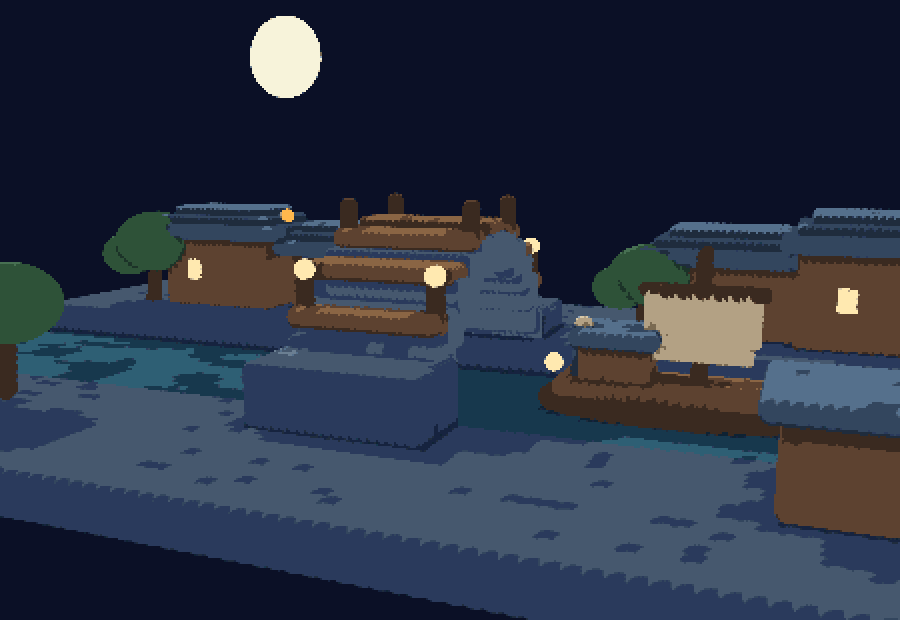
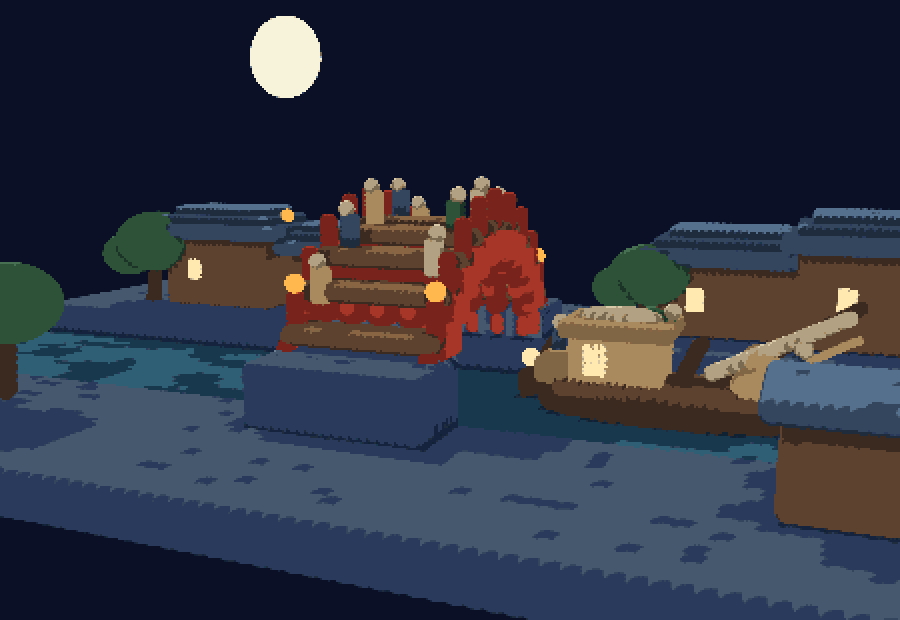
v0.2 按参考图细化：朱红木拱虹桥+拱肋+栏杆+人群；船桅放倒/收帆联动、竹编大舱、货筐、三船工（动态版+原生版同步）

Changed region(s): [[0.3111, 0.2758, 0.9644, 0.6435], [0.56, 0.7048, 0.8711, 0.7355]]

diff --git a/web/index.html b/web/index.html
@@ -98,7 +98,7 @@ const C = {
   roof:[51,70,94], roofD:[31,44,61], water:[23,56,77], waterD:[14,34,51], glint:[46,95,116],
   bank:[38,54,84], lamp:[255,184,77], lampR:[217,108,44], warm:[255,233,176],
   moon:[247,243,218], sail:[179,161,132], sailL:[216,201,168], leaf:[46,82,56], leafD:[28,51,40],
-  hull:[70,50,36], white:[232,228,200]
+  hull:[70,50,36], white:[232,228,200], red:[168,54,40], redD:[118,35,27], redL:[199,86,59], mat:[168,138,94], matD:[126,100,64], rope:[188,164,120], clothB:[96,110,128], clothG:[110,104,88]
 };
 
 /* water plane (kind=1: shimmer) */
@@ -107,16 +107,47 @@ for(let x=-12;x<12;x+=0.42) for(let z=-2.3;z<2.3;z+=0.42)
 /* banks */
 box(0,0.02,4.9, 12,0.28,2.1, C.bank, 0.4);
 box(0,0.25,-4.6, 12,0.5,2.4, C.bank, 0.4);
-/* Hong Bridge: stepped arch across Z, tunnel along X */
+/* Hong Bridge: red wooden arch across Z, tunnel along X (per the reference:
+   cinnabar lacquered timber arch ribs, railed deck crowded with onlookers, stone abutments) */
 (function(){
   const R=2.9;
-  for(let i=0;i<=14;i++){ const th=i/14*Math.PI, z=Math.cos(th)*R, y=0.1+Math.sin(th)*R;
-    box(0,y,z, 1.35,0.30,0.34, C.stone, 0.3); }
-  for(const s of [-1,1]){ box(0,0.55,s*3.35, 1.5,0.85,0.75, C.stoneD, 0.36); box(0,1.15,s*2.95, 1.45,0.28,0.5, C.stone, 0.34); }
-  for(let i=0;i<=10;i++){ const th=i/10*Math.PI, z=Math.cos(th)*(R+0.42), y=0.1+Math.sin(th)*(R+0.42);
-    box(0,y,z, 1.3,0.10,0.36, C.deck, 0.3);
-    if(i%2===0) for(const sx of [-1,1]){ box(sx*1.22,y+0.32,z, 0.07,0.32,0.07, C.woodD, 0.16);
-      if(i===2||i===8) ellipsoid(sx*1.22,y+0.78,z, 0.15,0.17,0.15, C.lamp, 26, 1); } }
+  const deckY=z=>{ const th=Math.acos(Math.max(-1,Math.min(1,z/(R+0.42)))); return 0.1+Math.sin(th)*(R+0.42); };
+  // stone abutments only at the two ends
+  for(const sd of [-1,1]){ box(0,0.55,sd*3.35, 1.5,0.85,0.75, C.stoneD, 0.36); box(0,1.15,sd*2.95, 1.45,0.28,0.5, C.stone, 0.34); }
+  // five parallel timber arch ribs under the deck
+  for(const rx of [-1.16,-0.58,0,0.58,1.16])
+    for(let i=0;i<=16;i++){ const th=i/16*Math.PI, z=Math.cos(th)*R, y=0.02+Math.sin(th)*R;
+      box(rx,y,z, 0.10,0.17,0.32, i%2?C.redD:C.red, 0.2); }
+  // two main arch chords at the faces
+  for(const fx of [-1.32,1.32])
+    for(let i=0;i<=16;i++){ const th=i/16*Math.PI, z=Math.cos(th)*(R+0.1), y=0.06+Math.sin(th)*(R+0.1);
+      box(fx,y,z, 0.09,0.24,0.34, C.red, 0.2); }
+  // deck planks + red fascia
+  for(let i=0;i<=12;i++){ const th=i/12*Math.PI, z=Math.cos(th)*(R+0.42), y=0.1+Math.sin(th)*(R+0.42);
+    box(0,y,z, 1.34,0.09,0.34, C.deck, 0.28);
+    for(const fx of [-1.36,1.36]) box(fx,y-0.06,z, 0.05,0.2,0.34, C.red, 0.2); }
+  // railings: posts + two rails following the arc, both faces
+  for(const fx of [-1.3,1.3]){
+    let prev=null;
+    for(let i=0;i<=12;i++){ const th=i/12*Math.PI, z=Math.cos(th)*(R+0.42), y=0.1+Math.sin(th)*(R+0.42)+0.1;
+      box(fx,y+0.26,z, 0.055,0.3,0.055, C.redD, 0.14);
+      if(prev) for(const h of [0.34,0.55]){
+        const mz=(prev.z+z)/2, my=(prev.y+y)/2;
+        box(fx,my+h,mz, 0.045,0.05,Math.abs(z-prev.z)/2+0.05, C.red, 0.14); }
+      prev={y,z};
+      if(i===2||i===10) ellipsoid(fx,y+0.78,z, 0.13,0.16,0.13, C.lampR, 22, 1);
+    }
+  }
+  // crowd on the deck: onlookers leaning on the rails, watching the boat
+  const crowdCols=[C.clothB,C.clothG,C.mat,C.sail,C.roof,C.clothB,C.matD,C.clothG];
+  function figure(x,z,ci,lean){
+    const y=deckY(z)+0.12, c=crowdCols[ci%crowdCols.length];
+    for(let i=0;i<7;i++) push(x+(Math.random()-0.5)*0.05, y+0.12+ (i%3)*0.15, z+(Math.random()-0.5)*0.05, 0,1,0, c, 0.19);
+    push(x+lean*0.1, y+0.62, z, 0,1,0, C.white, 0.15);
+    push(x+lean*0.16, y+0.55, z, lean,0,1, c, 0.13);
+  }
+  const spots=[[-0.95,-2.5],[0.95,-2.2],[-0.95,-1.7],[0.9,-1.2],[-0.9,-0.6],[0.95,-0.1],[-0.95,0.5],[0.9,1.0],[-0.9,1.6],[0.95,2.1],[-0.95,2.6],[0.2,-2.9],[-0.3,2.95],[0.5,0.4]];
+  spots.forEach((sp,i)=>figure(sp[0],sp[1],i, sp[0]>0?1:-1));
 })();
 /* houses */
 function house(x,z,w,h,d){
@@ -148,40 +179,86 @@ function walkerSplats(w){
   return out;
 }
 
-/* ============ 2. boat (dynamic group) ============ */
-const BOAT=[]; // local coords, kind: 0 normal, 3 = sail (y scales), 4 = yard+top (moves down)
+/* ============ 2. boat (dynamic group) ============
+   Per the reference: the mast is not just sail-furled, it is LOWERED (放倒桅杆) —
+   mast + yard + sail rotate forward around the mast step as the bridge nears;
+   the sail furls onto the mast, a spare bundle lies on the cabin roof.
+   kind: 0 static-in-boat, 3 sail (furls), 6 mast group (rotates), 7 furled bundle (swells as sail furls) */
+const BOAT=[];
 function bpush(x,y,z,nx,ny,nz,c,size,em,kind){ const l=Math.hypot(nx,ny,nz)||1;
   BOAT.push({x,y,z,nx:nx/l,ny:ny/l,nz:nz/l,r:c[0],g:c[1],b:c[2],size:size||0.3,em:em||0,kind:kind||0}); }
+function btube(x1,y1,z1,x2,y2,z2,r,c,step,kind){
+  const dx=x2-x1,dy=y2-y1,dz=z2-z1,len=Math.hypot(dx,dy,dz),ux=dx/len,uy=dy/len,uz=dz/len;
+  let px=-uz,pz=ux; const pl=Math.hypot(px,pz)||1; px/=pl; pz/=pl;
+  const qx=uy*pz, qy=uz*px-ux*pz, qz=-uy*px;
+  const rings=Math.max(2,Math.ceil(len/step)), around=Math.max(5,Math.ceil(2*Math.PI*r/step));
+  for(let i=0;i<=rings;i++){ const t=i/rings;
+    for(let j=0;j<around;j++){ const a=j/around*Math.PI*2, ca=Math.cos(a)*r, sa=Math.sin(a)*r;
+      bpush(x1+dx*t+px*ca+qx*sa, y1+dy*t+ (qy*sa), z1+dz*t+pz*ca+qz*sa, px*Math.cos(a)+qx*Math.sin(a), qy*Math.sin(a), pz*Math.cos(a)+qz*Math.sin(a), c, step*1.2, 0, kind); } }
+}
+function bellipsoid(cx,cy,cz,rx,ry,rz,c,n,kind){
+  for(let i=0;i<n;i++){ const y=1-(i/(n-1))*2, rad=Math.sqrt(Math.max(0,1-y*y)), th=2.399963*i;
+    bpush(cx+Math.cos(th)*rad*rx, cy+y*ry, cz+Math.sin(th)*rad*rz, Math.cos(th)/rx, y/ry, Math.sin(th)/rz, c, 0.3, 0, kind); }
+}
+function bplane(cx,cy,cz,hx,hy,c,step,em){
+  const n1=Math.ceil(2*hx/step), n2=Math.ceil(2*hy/step);
+  for(let i=0;i<n1;i++)for(let j=0;j<n2;j++)
+    bpush(cx-hx+(i+0.5)/n1*2*hx, cy-hy+(j+0.5)/n2*2*hy, cz, 0,0,1, c, step*1.25, em, 0);
+}
 (function buildBoat(){
-  // hull: ellipsoid surface, clipped top by sampling only lower 3/4 visually via deck cover
-  for(let i=0;i<560;i++){ const y=1-(i/559)*2, rad=Math.sqrt(Math.max(0,1-y*y)), th=2.399963*i;
-    if(y>0.55) continue;
-    bpush(Math.cos(th)*rad*2.3, 0.28+y*0.5, Math.sin(th)*rad*0.72, Math.cos(th)/2.3,y/0.5,Math.sin(th)/0.72, C.hull, 0.3); }
-  // deck & cabin
   const bx=(cx,cy,cz,hx,hy,hz,c,st)=>{ for(const f of [[1,0,0],[-1,0,0],[0,1,0],[0,-1,0],[0,0,1],[0,0,-1]]){
     const t1=f[0]!==0?[0,1,0]:[1,0,0], t2=f[0]!==0?[0,0,1]:(f[1]!==0?[0,0,1]:[0,1,0]);
     const e1=[hx*t1[0],hy*t1[1],hz*t1[2]], e2=[hx*t2[0],hy*t2[1],hz*t2[2]];
     const n1=Math.max(1,Math.ceil(2*Math.hypot(...e1)/st)), n2=Math.max(1,Math.ceil(2*Math.hypot(...e2)/st));
     for(let i=0;i<n1;i++)for(let j=0;j<n2;j++){ const a1=-1+(i+0.5)/n1*2,a2=-1+(j+0.5)/n2*2;
       bpush(cx+f[0]*hx+e1[0]*a1+e2[0]*a2, cy+f[1]*hy+e1[1]*a1+e2[1]*a2, cz+f[2]*hz+e1[2]*a1+e2[2]*a2, f[0],f[1],f[2], c, st*1.15); } } };
+  // hull + plank stripes + stepped upturned bow/stern
+  for(let i=0;i<560;i++){ const y=1-(i/559)*2, rad=Math.sqrt(Math.max(0,1-y*y)), th=2.399963*i;
+    if(y>0.55) continue;
+    bpush(Math.cos(th)*rad*2.3, 0.28+y*0.5, Math.sin(th)*rad*0.72, Math.cos(th)/2.3,y/0.5,Math.sin(th)/0.72, C.hull, 0.3); }
+  for(const sz of [-1,1]){ bx(0,0.44,sz*0.71, 1.8,0.045,0.02, C.woodD, 0.3); bx(0,0.2,sz*0.68, 1.7,0.045,0.02, C.woodD, 0.3); }
+  bx(2.28,0.6,0, 0.26,0.15,0.48, C.hull, 0.26); bx(2.52,0.78,0, 0.15,0.12,0.36, C.hull, 0.24);
+  bx(-2.28,0.6,0, 0.26,0.15,0.48, C.hull, 0.26); bx(-2.52,0.8,0, 0.15,0.12,0.36, C.hull, 0.24);
   bx(0,0.62,0, 1.9,0.10,0.6, C.deck, 0.3);
-  bx(-0.9,1.05,0, 0.55,0.42,0.5, C.wood, 0.3);
-  bx(-0.9,1.55,0, 0.7,0.09,0.62, C.roof, 0.3);
-  // mast (fixed)
-  for(let i=0;i<26;i++){ const a=i/26*Math.PI*2;
-    for(let j=0;j<9;j++) bpush(0.55+Math.cos(a)*0.055, 0.6+j*0.28, Math.sin(a)*0.055, Math.cos(a),0,Math.sin(a), C.woodD, 0.2); }
-  // sail cloth: local y in [0,1] over height 1.9, base at y=1.05 (kind=3)
+  // big woven-mat cabin: mat siding, dark frame, lattice window + door on the camera side, mat roof
+  bx(-0.85,1.12,0, 0.78,0.52,0.56, C.mat, 0.26);
+  bx(-0.85,1.68,0, 0.95,0.09,0.7, C.matD, 0.3);
+  btube(-1.72,1.8,0, 0.02,1.8,0, 0.05, C.woodD, 0.2, 0);
+  bplane(-1.18,1.18,0.575, 0.2,0.26, C.warm, 0.1, 0);
+  bplane(-0.42,1.16,0.575, 0.15,0.28, C.matD, 0.1, 0);
+  bplane(-1.18,1.18,-0.575, 0.2,0.26, C.matD, 0.1, 0);
+  // spare furled sail bundle on the cabin roof
+  bellipsoid(-0.85,1.88,0.1, 0.68,0.13,0.26, C.sail, 70, 0);
+  // mast step A-frame (static) + mast & yard (kind=6, rotate when lowering)
+  btube(0.18,0.66,0.42, 0.55,1.5,0, 0.045, C.woodD, 0.2, 0);
+  btube(0.18,0.66,-0.42, 0.55,1.5,0, 0.045, C.woodD, 0.2, 0);
+  btube(0.55,0.6,0, 0.55,3.55,0, 0.06, C.woodD, 0.2, 6);
+  btube(-0.5,3.3,0.05, 1.6,3.3,0.05, 0.04, C.woodD, 0.18, 6);
+  // sail (kind=3, furls onto the mast) + furled bundle hugging the mast (kind=7)
   for(let i=0;i<21;i++) for(let j=0;j<23;j++){
-    const lx=-0.42+i/20*1.9, ly=j/22;
-    bpush(0.55-0.95+ (i/20)*1.9, 1.05+ly*1.9, 0.07, 0,0,1, (j%5===4?C.sail:C.sailL), 0.30, 0, 3);
+    const ly=j/22;
+    bpush(0.55-0.95+(i/20)*1.9, 1.28+ly*1.92, 0.07, 0,0,1, (j%5===4?C.sail:C.sailL), 0.3, 0, 3);
   }
-  // yard (top bar, kind=4) + bow/stern lanterns
-  for(let i=0;i<14;i++) bpush(-0.42+i/13*1.95, 3.02, 0.07, 0,1,0, C.woodD, 0.18, 0, 4);
-  for(let i=0;i<20;i++){ const a=i*2.4; bpush(2.15+Math.cos(a)*0.12,0.9+Math.sin(a)*0.13,Math.sin(a*1.3)*0.1, 0,1,0, C.lampR, 0.17, 1); }
-  for(let i=0;i<20;i++){ const a=i*2.4; bpush(-2.1+Math.cos(a)*0.12,1.0+Math.sin(a)*0.13,Math.sin(a*1.3)*0.1, 0,1,0, C.lamp, 0.17, 1); }
-  // boatman
-  for(let i=0;i<12;i++){ const a=i*2.4; bpush(-1.5+Math.cos(a)*0.09,1.05+(i%4)*0.16,0.2+Math.sin(a)*0.09, 0,1,0, C.roof, 0.15); }
-  bpush(-1.5,1.78,0.2, 0,1,0, C.white, 0.16);
+  btube(0.63,1.3,0.12, 0.63,3.15,0.12, 0.085, C.sail, 0.16, 7);
+  // cargo: woven baskets fore, bales aft
+  bellipsoid(1.5,0.9,0.28, 0.34,0.27,0.34, C.mat, 90, 0);
+  bellipsoid(1.45,0.9,-0.32, 0.3,0.24,0.3, C.matD, 80, 0);
+  bellipsoid(1.55,1.32,0.02, 0.26,0.2,0.26, C.mat, 70, 0);
+  bx(-1.98,0.9,0.27, 0.28,0.17,0.26, C.rope, 0.2);
+  bx(-1.98,0.9,-0.3, 0.28,0.17,0.26, C.mat, 0.2);
+  // bow & stern lanterns
+  for(let i=0;i<20;i++){ const a=i*2.4; bpush(2.62+Math.cos(a)*0.11,0.98+Math.sin(a)*0.12,Math.sin(a*1.3)*0.1, 0,1,0, C.lampR, 0.17, 1); }
+  for(let i=0;i<20;i++){ const a=i*2.4; bpush(-2.6+Math.cos(a)*0.11,1.05+Math.sin(a)*0.12,Math.sin(a*1.3)*0.1, 0,1,0, C.lamp, 0.17, 1); }
+  // boatmen: bow puller leaning into the rope, roof hand at the mast, stern poler
+  btube(1.92,0.78,0.18, 2.18,1.38,0.18, 0.1, C.clothB, 0.14, 0);
+  bpush(2.24,1.56,0.18, 0,1,0, C.white, 0.16);
+  btube(2.3,1.35,0.18, 3.05,1.78,0.18, 0.022, C.rope, 0.12, 0);
+  btube(-0.35,1.98,0, -0.02,1.9,0, 0.09, C.clothG, 0.13, 0);
+  bpush(0.04,2.04,0, 0,1,0, C.white, 0.15);
+  btube(-0.08,1.92,0, 0.34,1.72,0, 0.035, C.clothG, 0.1, 0);
+  btube(-2.12,0.78,-0.25, -2.06,1.5,-0.25, 0.1, C.clothB, 0.14, 0);
+  bpush(-2.04,1.66,-0.25, 0,1,0, C.white, 0.16);
+  btube(-2.2,1.25,-0.3, -2.88,-0.05,-0.5, 0.03, C.woodD, 0.16, 0);
 })();
 
 /* fog particles */
@@ -241,10 +318,17 @@ function frame(dt){
   for(const w of WALKERS){ w.u+= (playing? dt*w.sp*w.dir : 0); if(w.u>0.92){w.u=0.92;w.dir=-1} if(w.u<0.08){w.u=0.08;w.dir=1}
     for(const s of walkerSplats(w)) proj(s,0,0,0); }
   for(const s of BOAT){
-    let lx=s.x*1.3, ly=s.y*1.22, lz=s.z*1.25, extraY=0;
-    if(s.kind===3){ const base=1.05*1.22; ly=base + (s.y*1.22-base)*sf; }
-    if(s.kind===4){ ly=s.y*1.22 - (1-sf)*1.95; }
-    proj({x:lx,y:ly,z:lz,nx:s.nx,ny:s.ny,nz:s.nz,r:s.r,g:s.g,b:s.b,size:s.size*1.3,em:s.em,kind:0}, boatX, bob, 0);
+    let lx=s.x*1.3, ly=s.y*1.22, lz=s.z*1.25, sizeF=1;
+    if(s.kind===3||s.kind===6||s.kind===7){
+      let px=s.x, py=s.y, pz=s.z;
+      if(s.kind===3){ const base=1.28; py=base+(py-base)*Math.max(0.05,sf); }
+      if(s.kind===7) sizeF=0.35+0.9*(1-sf);
+      const A=(1-sf)*1.02, cA=Math.cos(A), sA=Math.sin(A);
+      const dx=px-0.55, dy=py-0.62;
+      px=0.55+dx*cA+dy*sA; py=0.62-dx*sA+dy*cA;
+      lx=px*1.3; ly=py*1.22; lz=pz*1.25;
+    }
+    proj({x:lx,y:ly,z:lz,nx:s.nx,ny:s.ny,nz:s.nz,r:s.r,g:s.g,b:s.b,size:s.size*1.3*sizeF,em:s.em,kind:0}, boatX, bob, 0);
   }
   all.sort((a,b)=>b.z-a.z);
   /* sky */
@@ -300,10 +384,10 @@ function frame(dt){
   }
   /* caption / hud */
   const cap=document.getElementById('caption');
-  cap.textContent = boatX<-3.4 ? '扬帆顺流 · 灯火两岸' : boatX<-1.2 ? '桥洞在前 —— 收帆！' :
-    Math.abs(boatX)<=1.7 ? '桅下桥洞 · 帆已收拢，船身压低通过' : boatX<3.4 ? '过桥 —— 重新扬帆' : '顺流而下 · 月下汴河';
+  cap.textContent = boatX<-3.4 ? '扬帆顺流 · 灯火两岸' : boatX<-1.2 ? '桥洞在前 —— 放桅收帆！' :
+    Math.abs(boatX)<=1.7 ? '桅杆放倒 · 帆卷在桅上，贴着桥洞过' : boatX<3.4 ? '过桥 —— 立桅扬帆' : '顺流而下 · 月下汴河';
   document.getElementById('hud').innerHTML =
-    'splats ≈ '+(S.length+BOAT.length)+'<br>逻辑分辨率 480×270<br>船位 x='+boatX.toFixed(1)+' · 帆 '+(sf*100|0)+'%';
+    'splats ≈ '+(S.length+BOAT.length)+'<br>逻辑分辨率 480×270<br>船位 x='+boatX.toFixed(1)+' · 桅 '+(sf>0.9?'直立':sf<0.3?'已放倒':'放倒中 '+((1-sf)*100|0)+'%');
   document.getElementById('clock').textContent='t='+t.toFixed(1)+'s / '+LOOP+'s';
   if(!scrubbing) document.getElementById('scrub').value=(t/LOOP*1000)|0;
 }

diff --git a/scenes/qingming-night.js b/scenes/qingming-night.js
@@ -21,7 +21,9 @@ module.exports = ({ KIT: K, makeBuilder, makeSculpt }) => ({
       0xe8e4c8, 0xf7f3da,                               // 18-19 moon
       0x8fa3b8,                                         // 20 fog
       0x7a6a52, 0xb3a184, 0xd8c9a8,                     // 21-23 sail cloth
-      0x1c3328, 0x2e5238, 0x477052                      // 24-26 foliage
+      0x1c3328, 0x2e5238, 0x477052,                     // 24-26 foliage
+      0x78241c, 0xa83628, 0xc6543a,                     // 27-29 cinnabar red wood
+      0xa88a5e, 0x806644                                // 30-31 woven mat
     ];
     const B = makeBuilder(seed, PAL);
     const S = K.sculpt(makeSculpt(B));
@@ -43,34 +45,49 @@ module.exports = ({ KIT: K, makeBuilder, makeSculpt }) => ({
     const lampGold = { r: [15, 16, 17], em: true };
     const moonMat = { r: [18, 19, 19], em: true };
     const fogMat = { r: [20], a: 0.10, ghost: true };
+    const redWood = { r: [27, 28, 28, 29] };
+    const redDark = { r: [27, 27, 28] };
+    const matW = { r: [30, 30, 31] };
+    const matDark = { r: [31, 31, 30] };
 
     // ---- water & banks (river flows along X, width along Z) ----
     S.box([0, -0.12, 0], [12, 0.12, 2.3], water, { res: 0.22 });
     S.box([0, 0.02, 4.9], [12, 0.28, 2.1], bank, { res: 0.24 });   // front bank (low)
     S.box([0, 0.25, -4.6], [12, 0.5, 2.4], bank, { res: 0.24 });  // back bank
 
-    // ---- Hong Bridge: stepped arch spanning Z, tunnel axis along X ----
+    // ---- Hong Bridge: cinnabar timber arch (per the reference), stone abutments, crowded railed deck ----
     const R = 2.9, CY = 0.1;
-    for (let i = 0; i <= 14; i++) {
-      const th = (i / 14) * Math.PI;              // 0..PI over the arch
-      const z = Math.cos(th) * R, y = CY + Math.sin(th) * R;
-      S.box([0, y, z], [1.35, 0.30, 0.34], stone, { rd: 0.06, res: 0.15 });
+    const deckY = z => { const th = Math.acos(Math.max(-1, Math.min(1, z / (R + 0.42)))); return CY + Math.sin(th) * (R + 0.42); };
+    for (const rx of [-1.16, -0.58, 0, 0.58, 1.16])
+      for (let i = 0; i <= 16; i++) {
+        const th = (i / 16) * Math.PI, z = Math.cos(th) * R, y = CY - 0.08 + Math.sin(th) * R;
+        S.box([rx, y, z], [0.10, 0.17, 0.32], i % 2 ? redDark : redWood, { rd: 0.03, res: 0.15 });
+      }
+    for (const fx of [-1.32, 1.32])
+      for (let i = 0; i <= 16; i++) {
+        const th = (i / 16) * Math.PI, z = Math.cos(th) * (R + 0.1), y = CY + Math.sin(th) * (R + 0.1);
+        S.box([fx, y, z], [0.09, 0.24, 0.34], redWood, { rd: 0.03, res: 0.15 });
+      }
+    for (const sd of [-1, 1]) {
+      S.box([0, 0.55, sd * 3.35], [1.5, 0.85, 0.75], stoneDark, { rd: 0.05 });
+      S.box([0, 1.15, sd * 2.95], [1.45, 0.28, 0.5], stone, { rd: 0.05 });
     }
-    // abutments
-    for (const s of [-1, 1]) {
-      S.box([0, 0.55, s * 3.35], [1.5, 0.85, 0.75], stoneDark, { rd: 0.05 });
-      S.box([0, 1.15, s * 2.95], [1.45, 0.28, 0.5], stone, { rd: 0.05 });
-    }
-    // deck planks following the arc + railings with lanterns
-    for (let i = 0; i <= 10; i++) {
-      const th = (i / 10) * Math.PI;
+    for (let i = 0; i <= 12; i++) {
+      const th = (i / 12) * Math.PI;
       const z = Math.cos(th) * (R + 0.42), y = CY + Math.sin(th) * (R + 0.42);
-      S.box([0, y, z], [1.3, 0.10, 0.36], wood, { res: 0.14 });
-      if (i % 2 === 0) for (const sx of [-1, 1]) {
-        S.box([sx * 1.22, y + 0.32, z], [0.07, 0.32, 0.07], woodDark, {});
-        if (i === 2 || i === 8) S.ball([sx * 1.22, y + 0.78, z], 0.14, lampGold, { ghost: true, res: 0.07 });
+      S.box([0, y, z], [1.34, 0.09, 0.34], wood, { res: 0.14 });
+      for (const fx of [-1.3, 1.3]) {
+        S.box([fx, y + 0.36, z], [0.055, 0.3, 0.055], redDark, {});
+        if (i === 2 || i === 10) S.ball([fx, y + 0.85, z], 0.13, lampRed, { ghost: true, res: 0.07 });
       }
     }
+    // crowd leaning on the rails, watching the boat
+    const crowdCols = [{ r: [8, 9, 10] }, { r: [21, 22, 23] }, matW, { r: [24, 25, 26] }];
+    [[-0.95, -2.5], [0.95, -2.2], [-0.95, -1.7], [0.9, -1.2], [-0.9, -0.6], [0.95, -0.1], [-0.95, 0.5], [0.9, 1.0], [-0.9, 1.6], [0.95, 2.1], [-0.95, 2.6], [0.2, -2.9]].forEach(([fx, fz], i) => {
+      const fy = deckY(fz) + 0.12, cm = crowdCols[i % crowdCols.length];
+      S.box([fx, fy + 0.28, fz], [0.11, 0.28, 0.09], cm, { res: 0.09 });
+      S.ball([fx + (fx > 0 ? 0.06 : -0.06), fy + 0.68, fz], 0.11, { r: [21, 22, 23] }, { res: 0.06 });
+    });
 
     // ---- houses on the back bank (stepped roofs, lit windows) ----
     function house(x, z, w, h, d) {
@@ -99,23 +116,40 @@ module.exports = ({ KIT: K, makeBuilder, makeSculpt }) => ({
     }
     tree(-9.8, -3.6, 1.15); tree(3.4, -3.9, 0.95); tree(-6.2, 4.6, 1.0); tree(10.2, 4.4, 1.2);
 
-    // ---- the boat, under the arch, sail half-lowered ----
+    // ---- the boat, approaching the arch: mast LOWERED diagonally, sail furled on it (per the reference) ----
     const bx = 4.6, bz = 0;
     S.ball([bx, 0.28, bz], [2.3, 0.5, 0.72], woodDark, { res: 0.14 });            // hull
     S.box([bx, 0.62, bz], [1.9, 0.10, 0.6], wood, {});                              // deck
-    S.box([bx - 0.9, 1.05, bz], [0.55, 0.42, 0.5], wood, { rd: 0.05 });             // cabin
-    S.box([bx - 0.9, 1.55, bz], [0.7, 0.09, 0.62], roof, {});                       // cabin roof
-    S.tube([[bx + 0.55, 0.6, bz], [bx + 0.55, 3.1, bz]], 0.055, 0.045, woodDark, {}); // mast (top clears arch ~3.0 barely)
-    // sail: lowered — cloth bunched low, top yard dropped to mid-mast
-    S.box([bx + 0.55, 1.95, bz + 0.06], [0.95, 0.42, 0.045], cloth, { res: 0.10 });
-    S.box([bx + 0.55, 1.42, bz + 0.06], [0.85, 0.20, 0.06], cloth, { res: 0.10 });
-    S.tube([[bx - 0.45, 2.42, bz + 0.06], [bx + 1.55, 2.42, bz + 0.06]], 0.035, 0.035, woodDark, {}); // dropped yard
-    S.ball([bx + 2.15, 0.85, bz], 0.13, lampRed, { ghost: true, res: 0.07 });       // bow lantern
-    S.ball([bx - 2.1, 0.95, bz], 0.13, lampGold, { ghost: true, res: 0.07 });       // stern lantern
-    // boatman with a pole, aft
-    S.tube([[bx - 1.55, 0.7, bz + 0.2], [bx - 1.5, 1.55, bz + 0.2]], 0.09, 0.07, { r: [8, 9, 10] }, {});
-    S.ball([bx - 1.5, 1.72, bz + 0.2], 0.13, { r: [21, 22, 23] }, { res: 0.07 });
-    S.tube([[bx - 1.35, 1.2, bz + 0.2], [bx - 0.7, 0.25, bz + 0.55]], 0.03, 0.03, woodDark, {});
+    S.box([bx + 2.35, 0.62, bz], [0.24, 0.14, 0.46], woodDark, {});                 // upturned bow step
+    S.box([bx - 2.35, 0.62, bz], [0.24, 0.14, 0.46], woodDark, {});                 // stern step
+    // big woven-mat cabin
+    S.box([bx - 0.85, 1.12, bz], [0.78, 0.52, 0.56], matW, { rd: 0.04, res: 0.13 });
+    S.box([bx - 0.85, 1.72, bz], [0.95, 0.09, 0.7], matDark, { res: 0.14 });
+    S.box([bx - 1.18, 1.18, bz + 0.57], [0.2, 0.26, 0.02], lampGold, { ghost: true, res: 0.06 });
+    S.ball([bx - 0.85, 1.9, bz + 0.1], [0.68, 0.13, 0.26], cloth, { res: 0.12 });    // spare sail bundle on roof
+    // mast step A-frame + mast lowered toward the bow (angle ~58 deg from vertical)
+    S.tube([[bx + 0.18, 0.66, bz + 0.42], [bx + 0.55, 1.5, bz]], 0.045, 0.045, woodDark, {});
+    S.tube([[bx + 0.18, 0.66, bz - 0.42], [bx + 0.55, 1.5, bz]], 0.045, 0.045, woodDark, {});
+    S.tube([[bx + 0.55, 0.62, bz], [bx + 3.05, 2.28, bz]], 0.06, 0.045, woodDark, { res: 0.12 });
+    // sail furled: cloth bundle hugging the lowered mast
+    S.tube([[bx + 0.78, 1.02, bz + 0.12], [bx + 2.9, 2.12, bz + 0.12]], 0.09, 0.07, cloth, { res: 0.1 });
+    // cargo: woven baskets fore, bales aft
+    S.ball([bx + 1.5, 0.9, bz + 0.28], [0.34, 0.27, 0.34], matW, { res: 0.11 });
+    S.ball([bx + 1.45, 0.9, bz - 0.32], [0.3, 0.24, 0.3], matDark, { res: 0.11 });
+    S.ball([bx + 1.55, 1.3, bz], [0.26, 0.2, 0.26], matW, { res: 0.11 });
+    S.box([bx - 1.98, 0.9, bz + 0.27], [0.28, 0.17, 0.26], matDark, {});
+    S.box([bx - 1.98, 0.9, bz - 0.3], [0.28, 0.17, 0.26], matW, {});
+    S.ball([bx + 2.55, 0.95, bz], 0.13, lampRed, { ghost: true, res: 0.07 });       // bow lantern
+    S.ball([bx - 2.55, 1.0, bz], 0.13, lampGold, { ghost: true, res: 0.07 });       // stern lantern
+    // boatmen: bow puller with rope, roof hand at the mast foot, stern poler
+    S.tube([[bx + 1.92, 0.78, bz + 0.18], [bx + 2.18, 1.38, bz + 0.18]], 0.1, 0.08, { r: [8, 9, 10] }, { res: 0.08 });
+    S.ball([bx + 2.24, 1.56, bz + 0.18], 0.12, { r: [21, 22, 23] }, { res: 0.06 });
+    S.tube([[bx + 2.3, 1.35, bz + 0.18], [bx + 3.05, 1.78, bz + 0.18]], 0.022, 0.022, matW, { res: 0.08 });
+    S.tube([[bx - 0.35, 1.98, bz], [bx - 0.02, 1.9, bz]], 0.09, 0.07, { r: [24, 25, 26] }, { res: 0.08 });
+    S.ball([bx + 0.04, 2.04, bz], 0.11, { r: [21, 22, 23] }, { res: 0.06 });
+    S.tube([[bx - 2.12, 0.78, bz - 0.25], [bx - 2.06, 1.5, bz - 0.25]], 0.1, 0.08, { r: [8, 9, 10] }, { res: 0.08 });
+    S.ball([bx - 2.04, 1.66, bz - 0.25], 0.12, { r: [21, 22, 23] }, { res: 0.06 });
+    S.tube([[bx - 2.2, 1.25, bz - 0.3], [bx - 2.88, -0.05, bz - 0.5]], 0.03, 0.03, woodDark, {});
 
     // ---- moon & fog ----
     S.ball([-7.8, 7.6, -7.5], [1.05, 1.05, 0.3], moonMat, { ghost: true, res: 0.2 });

diff --git a/README.md b/README.md
@@ -11,7 +11,7 @@
 
 | 版本 | 文件 | 怎么跑 | 状态 |
 |---|---|---|---|
-| 动态版（主交付） | `web/index.html` | 浏览器直接打开，零依赖单文件 | ✅ 已实测：约 1.3 万 splats，26 秒循环，收帆过桥/雾/倒影/桥上行人/拖动环视/像素化开关 |
+| 动态版（主交付） | `web/index.html` | 浏览器直接打开，零依赖单文件 | ✅ 已实测：约 2 万 splats，26 秒循环，放桅收帆过桥/雾/倒影/桥上人群/拖动环视/像素化开关 |
 | Ink Studio 原生版 | `scenes/qingming-night.js` | 用上游 CLI 渲染 PNG | ✅ 已实测出图 `out/qingming.png`（900×620），关键帧：船在桥右、帆半收 |
 
 上游项目：[siliconjungle/shapeshift-labs-ink-studio](https://github.com/siliconjungle/shapeshift-labs-ink-studio)（MIT，2026-11-16 建仓）
@@ -37,7 +37,7 @@ node /tmp/ink-studio/cli/ink-studio.js stats scenes/qingming-night.js
 
 ## 动画设计（动态版，26 秒循环）
 
-- 船：x 从 -9.5 到 9.5 顺流；`sailFactor(x)` 控制帆：|x|>3.4 满帆 → 接近桥洞平滑收至 16% → 桥下保持 → 出桥重新扬帆；桅杆横桁同步下降；船身随波上下浮动。
+- 船：x 从 -9.5 到 9.5 顺流；`sailFactor(x)` 同时控制收帆与放桅：|x|>3.4 桅杆直立满帆 → 接近桥洞帆卷到桅上、桅杆连同横桁绕桅座向前放倒约 58° → 桥下保持 → 出桥立桅扬帆；船身随波上下浮动。虹桥按原画与参考图为朱红木拱（五道拱肋+栏杆+桥上看船人群），只有桥墩是石的；船上是竹编大舱、货筐与三名船工（船头拉绳、舱顶扶桅、船尾撑篙）。
 - 雾：64 个大尺寸低透明度泼溅粒子沿河面漂移（世界空间，非屏幕贴图）。
 - 倒影：月、桥灯、船头/船尾灯在水面生成镜像拉伸条纹，带正弦摆动；水面 splat 本身带 shimmer。
 - 桥上行人：3 个提灯行人沿桥面弧线往返。
